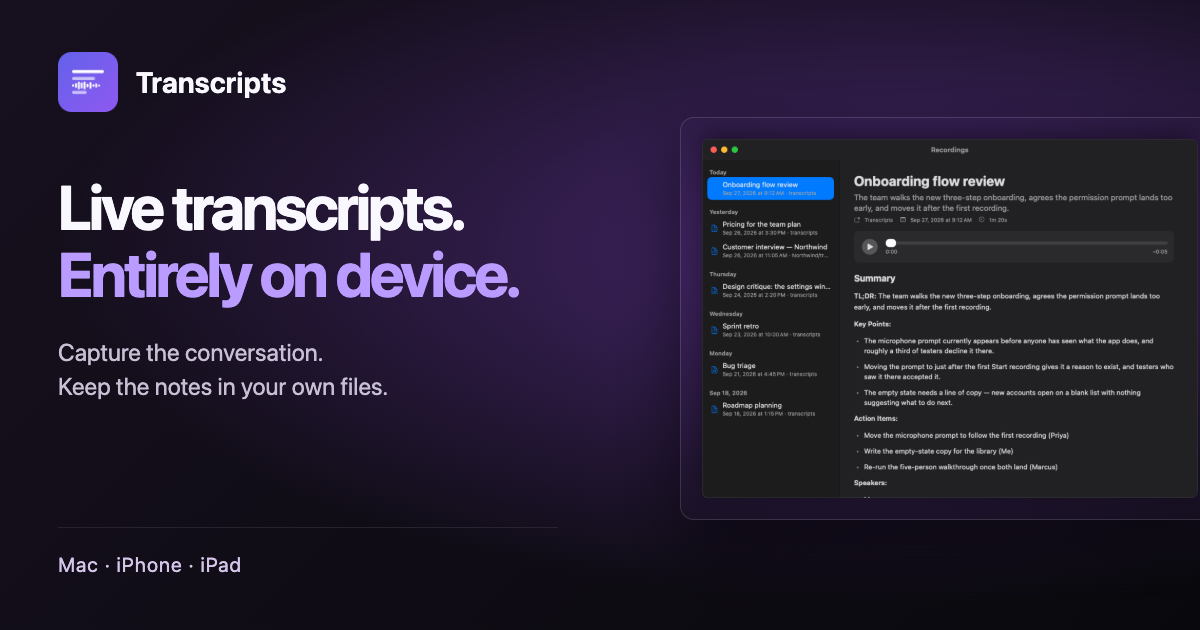
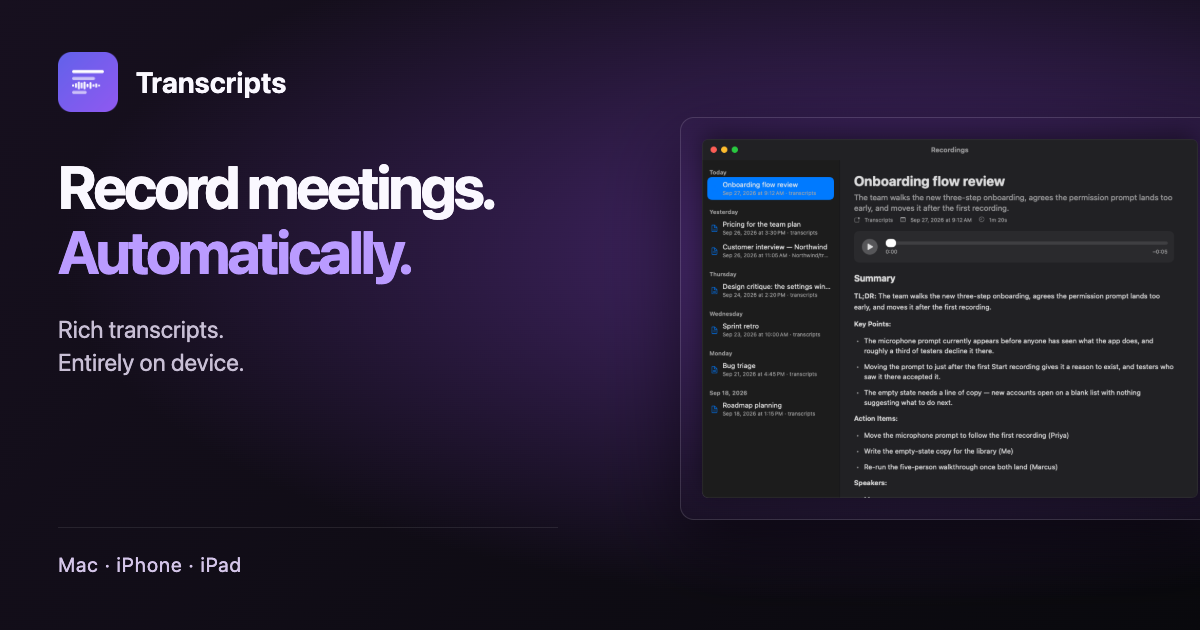
Lead launch messaging with automatic meeting recording

Changed region(s): [[0.0308, 0.2413, 0.4317, 0.4825], [0.0308, 0.5127, 0.3392, 0.6333]]

diff --git a/site/social-card.html b/site/social-card.html
@@ -1,3 +1,3 @@
 <!doctype html><meta charset="utf-8"><style>
-*{box-sizing:border-box}body{margin:0;font-family:-apple-system,BlinkMacSystemFont,sans-serif;color:#faf8ff}.card{position:relative;width:1200px;height:630px;overflow:hidden;background:radial-gradient(ellipse at 76% 40%,#492871,transparent 66%),linear-gradient(135deg,#17101f,#09090d)}.brand{position:absolute;left:58px;top:52px;display:flex;gap:18px;align-items:center;font-size:29px;font-weight:650}.brand img{width:60px;height:60px}.copy{position:absolute;left:58px;top:174px;width:575px}h1{font-size:62px;line-height:1.08;letter-spacing:-2.8px;margin:0;font-weight:700}h1 span{color:#ba9bff}p{font-size:24px;line-height:1.4;color:#c8bfd5;margin-top:28px;width:480px}.devices{position:absolute;left:58px;bottom:54px;color:#d4c5e9;font-size:20px;letter-spacing:1px}.screen{position:absolute;left:680px;top:117px;width:540px;height:403px;object-fit:contain;border-radius:14px;box-shadow:0 28px 70px #0008;border:1px solid #ffffff22}.rule{position:absolute;left:58px;bottom:102px;width:500px;height:1px;background:#ffffff16}
-</style><div class="card"><div class="brand"><img src="../docs/assets/icon.png">Transcripts</div><div class="copy"><h1>Live transcripts.<br><span>Entirely on device.</span></h1><p>Capture the conversation.<br>Keep the notes in your own files.</p></div><img class="screen" src="../docs/guide/images/document-summary.webp"><div class="rule"></div><div class="devices">Mac · iPhone · iPad</div></div>
+*{box-sizing:border-box}body{margin:0;font-family:-apple-system,BlinkMacSystemFont,sans-serif;color:#faf8ff}.card{position:relative;width:1200px;height:630px;overflow:hidden;background:radial-gradient(ellipse at 76% 40%,#492871,transparent 66%),linear-gradient(135deg,#17101f,#09090d)}.brand{position:absolute;left:58px;top:52px;display:flex;gap:18px;align-items:center;font-size:29px;font-weight:650}.brand img{width:60px;height:60px}.copy{position:absolute;left:58px;top:155px;width:575px}h1{font-size:60px;line-height:1.08;letter-spacing:-2.8px;margin:0;font-weight:700}h1 span{color:#ba9bff}p{font-size:24px;line-height:1.4;color:#c8bfd5;margin-top:28px;width:480px}.devices{position:absolute;left:58px;bottom:54px;color:#d4c5e9;font-size:20px;letter-spacing:1px}.screen{position:absolute;left:680px;top:117px;width:540px;height:403px;object-fit:contain;border-radius:14px;box-shadow:0 28px 70px #0008;border:1px solid #ffffff22}.rule{position:absolute;left:58px;bottom:102px;width:500px;height:1px;background:#ffffff16}
+</style><div class="card"><div class="brand"><img src="../docs/assets/icon.png">Transcripts</div><div class="copy"><h1>Record meetings.<br><span>Automatically.</span></h1><p>Rich transcripts.<br>Entirely on device.</p></div><img class="screen" src="../docs/guide/images/document-summary.webp"><div class="rule"></div><div class="devices">Mac · iPhone · iPad</div></div>

diff --git a/site/index.html b/site/index.html
@@ -8,11 +8,11 @@
           style="position:absolute;pointer-events:none;height:340px"></canvas>
   <img class="mark" src="/icon.png" alt="" width="96" height="96">
   <span class="early-access">Now on the App Store · Mac, iPhone &amp; iPad</span>
-  <h1>Live transcripts of every meeting. Entirely on device.</h1>
+  <h1>Record meetings automatically. Rich transcripts, entirely on device.</h1>
   <p class="sub">
-    It notices the call has started, writes down what everyone says as they say
-    it, and files the result where you keep your notes — on your Mac, iPhone and
-    iPad.
+    Turn on automatic recording on your Mac. Transcripts detects supported calls,
+    captures both sides, and creates speaker-labeled notes with summaries and
+    action items. Record on iPhone and iPad, then share the results through iCloud Drive.
   </p>
   <div class="downloads" id="download">
     <div class="store-buttons">

diff --git a/site/build.py b/site/build.py
@@ -278,7 +278,7 @@ def page(title: str, body: str, *, nav: str = "", cls: str = "", url_path: str =
     canonical = "https://transcripts.doughatcher.com" + url_path
     social_version = hashlib.sha256((ROOT / "site/social-card.png").read_bytes()).hexdigest()[:10]
     social_image = f"https://transcripts.doughatcher.com/social-card.png?v={social_version}"
-    description = "Record on Mac, iPhone and iPad. Transcribe on device, create meeting notes on your Mac, and keep the files in a folder you choose."
+    description = "Automatically record meetings on your Mac. Get rich transcripts, speaker names and summaries, all processed on device. With iPhone and iPad companions."
     open_body = '<article class="guide-body">' if cls == "guide" else ""
     close_body = "</article>" if cls == "guide" else ""
     return f"""<!doctype html>
@@ -298,12 +298,12 @@ def page(title: str, body: str, *, nav: str = "", cls: str = "", url_path: str =
 <meta property="og:image:type" content="image/png">
 <meta property="og:image:width" content="1200">
 <meta property="og:image:height" content="630">
-<meta property="og:image:alt" content="Transcripts for Mac, iPhone and iPad — live transcripts entirely on device, with a Mac recording and summary.">
+<meta property="og:image:alt" content="Transcripts for Mac, iPhone and iPad — automatic meeting recording and rich transcripts, entirely on device.">
 <meta name="twitter:card" content="summary_large_image">
 <meta name="twitter:title" content="{html.escape(title)}">
 <meta name="twitter:description" content="{description}">
 <meta name="twitter:image" content="{social_image}">
-<meta name="twitter:image:alt" content="Transcripts — live transcripts entirely on device.">
+<meta name="twitter:image:alt" content="Transcripts — record meetings automatically. Rich transcripts, entirely on device.">
 <link rel="stylesheet" href="/style.css?v={ASSET_V}">
 <link rel="icon" href="/icon.png">
 {ANALYTICS}
@@ -352,7 +352,7 @@ def build():
     landing = landing.replace("{{ZIP}}", f"Transcripts-{version}.zip")
     # The button hands out the disk image; the zip is for the updater and brew.
     landing = landing.replace("{{DMG}}", f"Transcripts-{version}.dmg")
-    (OUT / "index.html").write_text(page("Transcripts — live meeting transcripts, entirely on device",
+    (OUT / "index.html").write_text(page("Transcripts — automatic meeting recording, entirely on device",
                                          landing, cls="landing"))
     print(f"  · version {version}")
 
